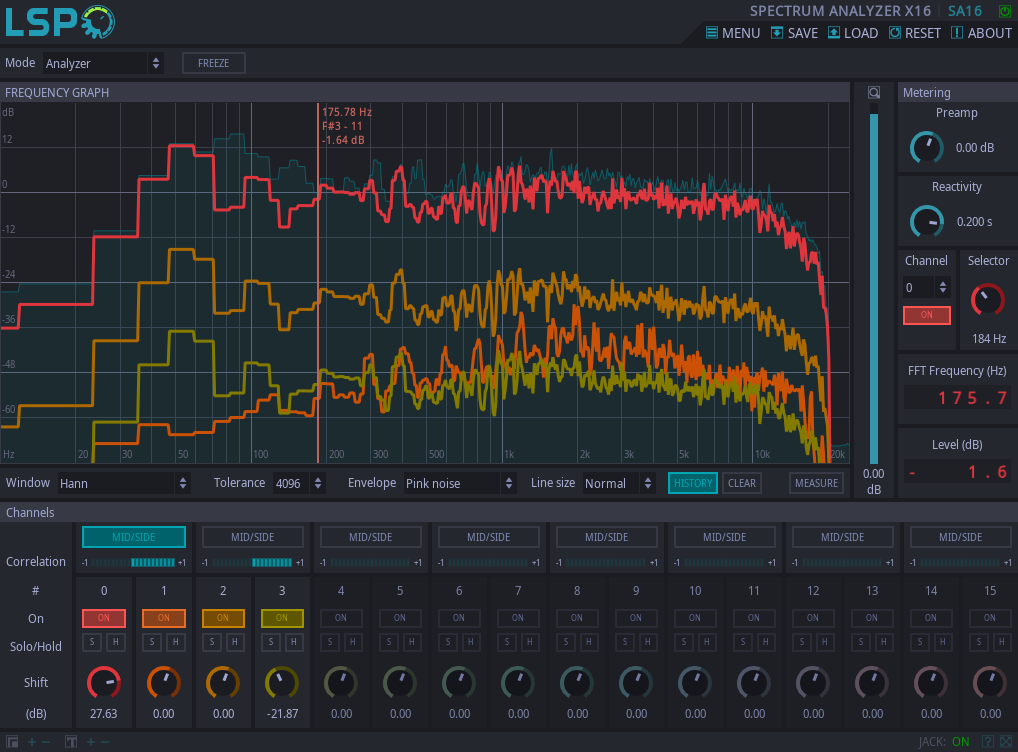
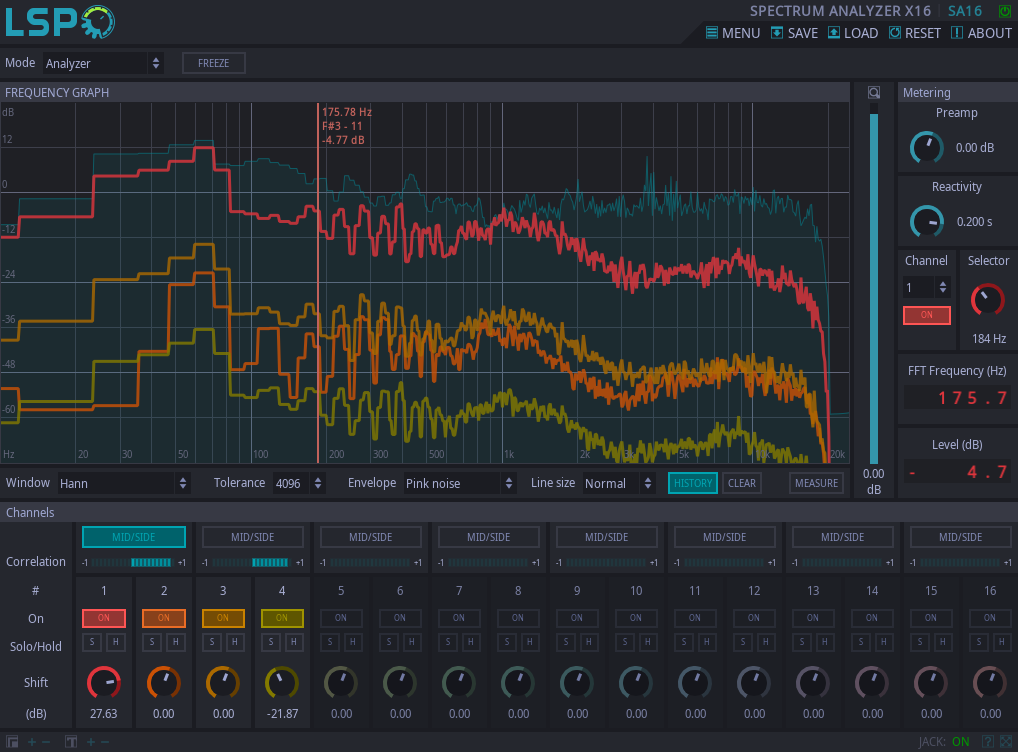
Changed the numbering.
The numbering starts with one, at the UI level.
Updated screenshots.

Changed region(s): [[0.0, 0.1835, 0.8222, 0.6423], [0.0, 0.2447, 0.0914, 0.3364], [0.944, 0.6117, 1.0, 0.6423]]

diff --git a/src/main/meta/spectrum_analyzer.cpp b/src/main/meta/spectrum_analyzer.cpp
@@ -76,8 +76,8 @@ namespace lsp
 
         static const port_item_t spectrum_analyzer_x2_channels[]=
         {
-            R("0"),
             R("1"),
+            R("2"),
             { NULL, NULL }
         };
 
@@ -92,7 +92,7 @@ namespace lsp
 
         static const port_item_t spectrum_analyzer_x4_channels[]=
         {
-            R("0"), R("1"), R("2"), R("3"),
+            R("1"), R("2"), R("3"), R("4"),
             { NULL, NULL }
         };
 
@@ -109,8 +109,8 @@ namespace lsp
 
         static const port_item_t spectrum_analyzer_x8_channels[]=
         {
-            R("0"), R("1"), R("2"), R("3"),
-            R("4"), R("5"), R("6"), R("7"),
+            R("1"), R("2"), R("3"), R("4"),
+            R("5"), R("6"), R("7"), R("8"),
             { NULL, NULL }
         };
 
@@ -118,9 +118,9 @@ namespace lsp
 
         static const port_item_t spectrum_analyzer_x12_channels[]=
         {
-            R("0"), R("1"), R("2"), R("3"),
-            R("4"), R("5"), R("6"), R("7"),
-            R("8"), R("9"), R("10"), R("11"),
+            R("1"), R("2"), R("3"), R("4"),
+            R("5"), R("6"), R("7"), R("8"),
+            R("9"), R("10"), R("11"), R("12"),
             { NULL, NULL }
         };
 
@@ -128,10 +128,10 @@ namespace lsp
 
         static const port_item_t spectrum_analyzer_x16_channels[]=
         {
-            R("0"), R("1"), R("2"), R("3"),
-            R("4"), R("5"), R("6"), R("7"),
-            R("8"), R("9"), R("10"), R("11"),
-            R("12"), R("13"), R("14"), R("15"),
+            R("1"), R("2"), R("3"), R("4"),
+            R("5"), R("6"), R("7"), R("8"),
+            R("9"), R("10"), R("11"), R("12"),
+            R("13"), R("14"), R("15"), R("16"),
             { NULL, NULL }
         };
 
